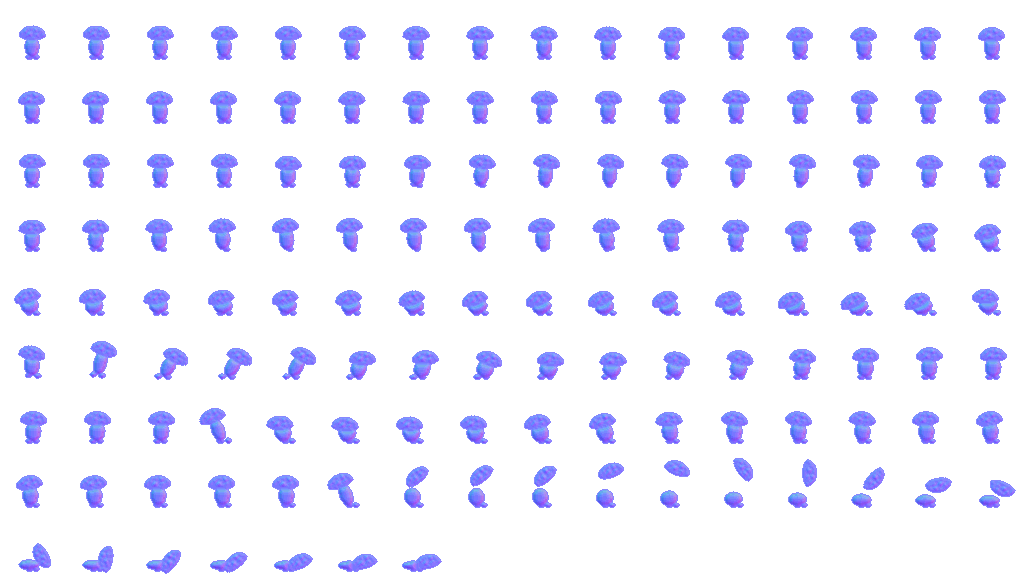
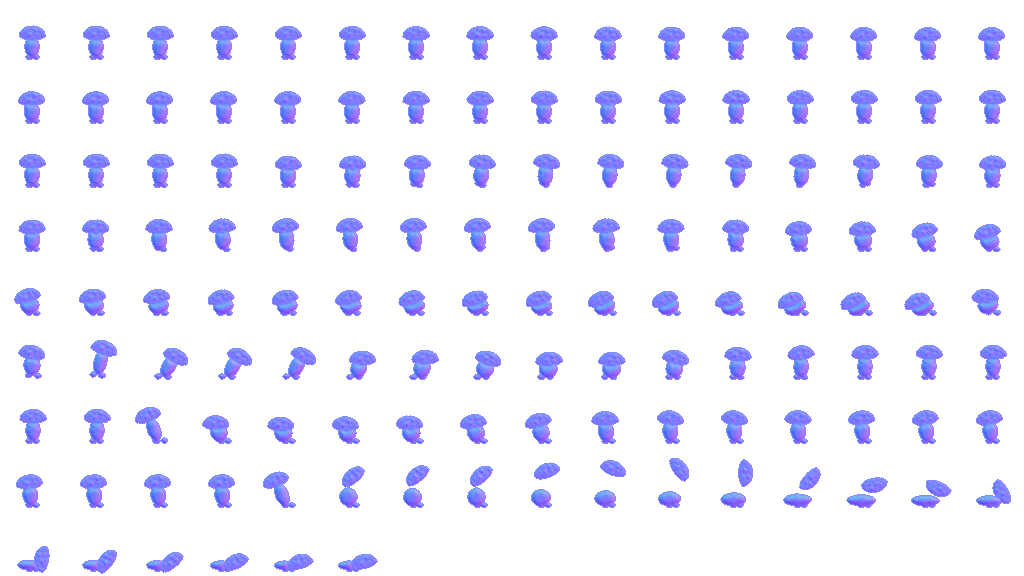
WIP: enemy art v3 (Capmook 35px, Hopkin 29px) - snapshot; Ren redo still in progress
Claude-Session: https://claude.ai/code/session_01BpYjz1tN7BSm1fEV9HQrDi

diff --git a/aurelia/tools/spritegen/chars/hopkin.py b/aurelia/tools/spritegen/chars/hopkin.py
@@ -36,51 +36,58 @@ def P(**kw):
     return d
 
 
+def sq(s):
+    """Volume-preserving squash/stretch: s>1 stretches tall, s<1 squashes flat (area stays constant)."""
+    return {"bh": 9.5 * s, "bw": 11.0 / s}
+
+
 def poses(anim, n):
+    """Disney checklist per anim: anticipation, squash & stretch (volume kept), arcs, overlap (ears are
+    springs), slow in/out (ease tags), exaggeration, a clear tell before every attack."""
     if anim == "idle":
         return [
-            P(bw=11.0, bh=9.5, earback=0.0),
-            P(bw=11.25, bh=9.3, earback=0.25, ff=(4.7, 0), bf=(-4.7, 0)),
-            P(bw=11.5, bh=9.1, earback=0.8, lean=1.5),                     # ear twitch
-            P(bw=11.2, bh=9.4, earback=-0.1, expr="blink"),
+            P(**sq(1.0)),
+            P(**sq(0.985), earback=0.15),
+            P(**sq(0.965), earback=0.5, lean=1.2),                     # breath in, ear twitch
+            P(**sq(0.985), earback=-0.1, expr="blink"),
         ][:n]
-    if anim == "walk":    # the hop cycle: squat, stretch-launch, air, air-tuck, land squash, settle
+    if anim == "walk":    # hop cycle on an arc: squat -> stretch-launch -> peak -> tuck/fall -> land squash -> settle
         return [
-            P(bw=12.8, bh=7.8, ff=(5.0, 0), bf=(-5.0, 0), earback=-0.4),
-            P(bw=9.4, bh=11.2, lift=2.5, lean=6, ff=(3.0, -2.0), bf=(-3.0, -2.2), earback=0.4, hx=0.5),
-            P(bw=10.0, bh=10.6, lift=6.0, lean=9, ff=(3.8, -6.0), bf=(-3.2, -6.4), earback=0.7, hx=1.0),
-            P(bw=11.0, bh=10.0, lift=5.0, lean=13, ff=(4.4, -5.0), bf=(-2.8, -5.4), earback=0.55, hx=1.5, expr="happy"),
-            P(bw=13.2, bh=7.3, ff=(5.4, 0), bf=(-5.2, 0), earback=-0.8, lean=2, hx=1.5),
-            P(bw=11.8, bh=9.0, earback=-0.2, hx=1.0),
+            P(**sq(0.8), ff=(5.0, 0), bf=(-5.0, 0), earback=-0.5, expr="happy", ease="in"),
+            P(**sq(1.20), lift=2.4, lean=8, ff=(2.2, -2.0), bf=(-3.4, -2.6), earback=0.6, hx=0.6, ease="out"),
+            P(**sq(1.08), lift=6.6, lean=4, ff=(3.6, -6.2), bf=(-2.8, -6.6), earback=0.8, hx=1.4),
+            P(**sq(0.98), lift=4.4, lean=-6, ff=(4.4, -4.2), bf=(-2.6, -4.6), earback=0.2, hx=1.9, ease="in"),
+            P(**sq(0.70), ff=(5.6, 0), bf=(-5.4, 0), earback=-1.0, lean=3, hx=1.9, ease="out"),
+            P(**sq(1.05), earback=-0.2, hx=1.2),
         ][:n]
-    if anim == "windup":
+    if anim == "windup":   # the tell: pin ears, coil, shiver, glare
         return [
-            P(bw=12.8, bh=8.0, hx=-0.8, rage=0.3, earback=0.3, expr="angry", ff=(5.0, 0), bf=(-5.0, 0)),
-            P(bw=13.6, bh=7.3, hx=0.8, rage=0.65, earback=0.65, expr="angry", ff=(5.4, 0), bf=(-5.4, 0)),
-            P(bw=14.2, bh=6.8, lean=-7, rage=1.0, earback=1.0, expr="angry", mouth="fang", ff=(5.8, 0), bf=(-5.6, 0)),
+            P(**sq(0.84), hx=-0.7, earback=0.5, expr="angry", mouth="fang", ff=(5.0, 0), bf=(-5.0, 0), ease="inout"),
+            P(**sq(0.8), hx=0.9, earback=0.7, expr="angry", mouth="fang", ff=(5.5, 0), bf=(-5.4, 0)),
+            P(**sq(0.72), lean=-9, hx=-0.5, earback=0.9, expr="angry", mouth="fang", ff=(6.0, 0), bf=(-5.8, 0)),
         ][:n]
     if anim == "pounce":
         return [
-            P(bw=14.0, bh=6.6, lean=-10, hx=-1.5, rage=1.0, earback=1.0, expr="angry", mouth="fang", ff=(5.8, 0), bf=(-5.6, 0)),
-            P(bw=9.0, bh=11.4, lean=28, hx=1.5, lift=8.0, rage=1.0, earback=0.75, expr="angry", mouth="open", ff=(-1.0, -9.0), bf=(-4.5, -9.6)),
-            P(bw=10.0, bh=10.4, lean=36, hx=3.0, lift=4.5, rage=1.0, earback=0.8, expr="angry", mouth="open", ff=(1.0, -5.5), bf=(-4.0, -6.0)),
-            P(bw=12.2, bh=8.6, lean=36, hx=3.8, rage=1.0, earback=1.1, expr="angry", mouth="wide", ff=(3.0, 0), bf=(-5.5, 0)),
-            P(bw=13.5, bh=7.2, lean=14, hx=3.0, rage=0.5, earback=0.3, expr="angry", mouth="fang", ff=(5.0, 0), bf=(-5.4, 0)),
-            P(bw=11.8, bh=9.0, lean=1, hx=1.2, rage=0.1, earback=-0.2, expr="neutral"),
+            P(**sq(0.7), lean=-12, hx=-1.6, earback=0.95, expr="angry", mouth="fang", ff=(6.0, 0), bf=(-5.8, 0), ease="in"),
+            P(**sq(1.24), lean=30, hx=1.6, lift=8.0, earback=1.15, expr="angry", mouth="open", ff=(-1.0, -9.0), bf=(-4.6, -9.8), ease="snap"),
+            P(**sq(1.12), lean=34, hx=3.0, lift=4.8, earback=1.0, expr="angry", mouth="open", ff=(1.0, -5.8), bf=(-4.2, -6.4)),
+            P(**sq(0.88), lean=38, hx=4.0, earback=1.2, expr="angry", mouth="wide", ff=(3.2, 0), bf=(-5.6, 0)),
+            P(**sq(0.72), lean=12, hx=3.2, earback=-0.6, expr="angry", mouth="fang", ff=(5.2, 0), bf=(-5.6, 0), ease="out"),
+            P(**sq(1.03), lean=-1, hx=1.2, earback=0.3, expr="neutral"),
         ][:n]
     if anim == "hurt":
         return [
-            P(bw=9.0, bh=11.4, lean=-22, hx=-2.5, lift=1.0, expr="hurt", mouth="o", earback=1.3, ff=(3.5, -0.5), bf=(-5, -0.5)),
-            P(bw=13.0, bh=8.0, lean=-12, hx=-3.0, expr="hurt", mouth="o", earback=0.7),
-            P(bw=11.6, bh=9.2, lean=-4, hx=-1.5, expr="hurt", mouth="o", earback=0.1),
+            P(**sq(1.22), lean=-24, hx=-2.6, lift=1.0, expr="hurt", mouth="o", earback=1.4, ff=(3.5, -0.5), bf=(-5, -0.5), ease="snap"),
+            P(**sq(0.76), lean=-12, hx=-3.2, expr="hurt", mouth="o", earback=0.5),
+            P(**sq(1.0), lean=-3, hx=-1.4, expr="hurt", mouth="o", earback=-0.3),
         ][:n]
     if anim == "death":
         return [
-            P(bw=9.4, bh=11.0, lean=-22, hx=-2.5, lift=1.0, expr="hurt", mouth="o", earback=1.3),
-            P(bw=13.6, bh=7.0, lean=-6, hx=-2.5, expr="dead", mouth="tongue", earback=-1.0, droop=0.4),
-            P(bw=15.2, bh=5.6, hx=-2.5, expr="dead", mouth="tongue", droop=0.8, earback=-1.0),
-            P(bw=16.2, bh=4.7, hx=-2.5, expr="dead", mouth="tongue", droop=1.0, earback=-1.0),
-            P(bw=16.6, bh=4.3, hx=-2.5, expr="dead", mouth="tongue", droop=1.0, earback=-1.0),
+            P(**sq(1.2), lean=-24, hx=-2.6, lift=1.0, expr="hurt", mouth="o", earback=1.4, ease="snap"),
+            P(**sq(0.74), lean=-8, hx=-2.6, expr="dead", mouth="tongue", earback=-1.0, droop=0.4),
+            P(bw=15.0, bh=5.6, hx=-2.6, expr="dead", mouth="tongue", droop=0.8, earback=-1.0),
+            P(bw=16.2, bh=4.7, hx=-2.6, expr="dead", mouth="tongue", droop=1.0, earback=-1.0),
+            P(bw=16.6, bh=4.3, hx=-2.6, expr="dead", mouth="tongue", droop=1.0, earback=-1.0),
         ][:n]
     raise KeyError(anim)
 
@@ -161,15 +168,15 @@ def draw(sk, chains, p):
     # body + belly
     body = Mask(CELL).ellipse(c, bw, bh, lean)
     cv.paint("fur", body, group="body", k=6, cast=4)
-    bo = _rot((bw * 0.22, bh * 0.28), lean)
-    belly = Mask(CELL).ellipse((c[0] + bo[0], c[1] + bo[1]), bw * 0.62, bh * 0.6, lean).array() & body.array()
+    bo = _rot((bw * 0.12, bh * 0.50), lean)
+    belly = Mask(CELL).ellipse((c[0] + bo[0], c[1] + bo[1]), bw * 0.50, bh * 0.42, lean).array() & body.array()
     cv.paint("belly", belly, group="body", k=5, deep=False)
     buf = cv.finish(NO_SEAM)
     # ---- face ----
     ok = {cv.matidx["fur"], cv.matidx["belly"]}
-    fo = _rot((bw * 0.17, -bh * 0.16), lean)
+    fo = _rot((bw * 0.22, -bh * 0.06), lean)
     fx, fy = int(round(c[0] + fo[0])), int(round(c[1] + fo[1]))
-    eyes(buf, ok, fx, fy, p["expr"], 3, 4, 5)
+    eyes(buf, ok, fx, fy - 1, p["expr"], 3, 4, 4)
     pink, dark, white, tongue = (246, 150, 170), (92, 40, 60), (255, 255, 255), (240, 110, 130)
     if p["expr"] in ("neutral", "blink", "happy"):
         for dx in (-7, 7):

diff --git a/aurelia/tools/spritegen/chars/capmook.py b/aurelia/tools/spritegen/chars/capmook.py
@@ -27,6 +27,11 @@ DEFAULT = dict(hx=0.0, lift=0.0, lean=0.0, bw=6.6, bh=10.6, ff=(3.0, 0.0), bf=(-
                capoff=(0.0, 0.0), capabs=(0.0, 0.0), capfree=0.0, caprot=0.0, expr="neutral", mouth="smile")
 
 
+def sq(s):
+    """Volume-preserving squash (s<1) / stretch (s>1): bw*bh stays constant."""
+    return {"bh": 10.6 * s, "bw": 6.6 / s}
+
+
 def P(**kw):
     d = dict(DEFAULT)
     d.update(kw)
@@ -54,39 +59,39 @@ def poses(anim, n):
             t = i / n
             ff, bf = _foot(t, 3.4, 2.4), _foot(t + 0.5, 3.4, 2.4)
             down = 0.5 + 0.5 * math.cos(4 * math.pi * t)          # 1 at foot contact
-            out.append(P(lean=5.5 * math.sin(2 * math.pi * t), bw=6.6 + 0.4 * down, bh=10.6 - 0.8 * down,
+            out.append(P(lean=5.5 * math.sin(2 * math.pi * t), **sq(1.0 - 0.075 * down),
                          ff=ff, bf=bf, hx=0.7 * math.sin(2 * math.pi * t), capoff=(0.0, 0.5 * down),
                          expr="neutral"))
         return out
-    if anim == "windup":    # squat, shake and glare
+    if anim == "windup":    # the tell: crouch, shake, cap pressed down, glare + gritted teeth
         return [
-            P(bw=7.4, bh=9.2, lean=-5, expr="angry", ff=(3.3, 0), bf=(-3.5, 0), capoff=(0, 0.6), mouth="grit", ease="inout"),
-            P(bw=8.2, bh=8.0, lean=-10, hx=-0.9, expr="angry", ff=(3.7, 0), bf=(-3.9, 0), capoff=(0.0, 1.2), mouth="grit"),
-            P(bw=8.7, bh=7.3, lean=-13, hx=0.9, expr="angry", ff=(4.0, 0), bf=(-4.2, 0), capoff=(-0.4, 1.6), mouth="grit"),
-            P(bw=8.9, bh=7.0, lean=-15, hx=-0.5, expr="angry", ff=(4.1, 0), bf=(-4.3, 0), capoff=(-0.6, 1.8), mouth="grit"),
+            P(**sq(0.86), lean=-5, expr="angry", ff=(3.3, 0), bf=(-3.5, 0), capoff=(0, 0.6), mouth="grit", ease="inout"),
+            P(**sq(0.76), lean=-10, hx=-0.9, expr="angry", ff=(3.7, 0), bf=(-3.9, 0), capoff=(0.0, 1.2), mouth="grit"),
+            P(**sq(0.70), lean=-13, hx=0.9, expr="angry", ff=(4.0, 0), bf=(-4.2, 0), capoff=(-0.4, 1.6), mouth="grit"),
+            P(**sq(0.67), lean=-15, hx=-0.5, expr="angry", ff=(4.1, 0), bf=(-4.3, 0), capoff=(-0.6, 1.8), mouth="grit"),
         ][:n]
-    if anim == "headbutt":
+    if anim == "headbutt":   # coil (anticipation) -> snap launch (stretch) -> contact on an arc -> recoil -> settle
         return [
-            P(bw=8.9, bh=7.0, lean=-19, hx=-1.2, expr="angry", ff=(4.1, 0), bf=(-4.4, 0), capoff=(-1.0, 1.8), mouth="grit", ease="in"),
-            P(bw=9.2, bh=6.6, lean=-24, hx=-2.6, expr="angry", ff=(4.3, 0), bf=(-4.6, 0), capoff=(-1.8, 2.0), mouth="grit", stop=True, ease="in"),
-            P(bw=6.0, bh=11.6, lean=12, hx=1.8, lift=3.2, expr="angry", ff=(5.2, -1.6), bf=(-3.4, -2.6), mouth="open", ease="snap"),
-            P(bw=6.2, bh=11.0, lean=26, hx=3.8, lift=1.0, expr="angry", ff=(7.0, 0), bf=(-2.4, -0.6), capoff=(2.2, 1.2), mouth="open"),
-            P(bw=7.2, bh=9.6, lean=18, hx=3.8, expr="angry", ff=(6.0, 0), bf=(-3.0, 0), capoff=(1.4, 0.8), mouth="open"),
-            P(bw=8.2, bh=8.0, lean=8, hx=2.6, expr="neutral", ff=(4.6, 0), bf=(-3.6, 0), capoff=(0.4, 1.2), mouth="grit"),
-            P(bw=7.2, bh=9.8, lean=1, hx=1.0, expr="neutral", ff=(3.4, 0), bf=(-3.4, 0)),
+            P(**sq(0.66), lean=-19, hx=-1.2, expr="angry", ff=(4.1, 0), bf=(-4.4, 0), capoff=(-1.0, 1.8), mouth="grit", ease="in"),
+            P(**sq(0.62), lean=-24, hx=-2.6, expr="angry", ff=(4.3, 0), bf=(-4.6, 0), capoff=(-1.8, 2.0), mouth="grit", stop=True, ease="in"),
+            P(**sq(1.14), lean=12, hx=1.8, lift=3.2, expr="angry", ff=(5.2, -1.6), bf=(-3.4, -2.6), mouth="open", ease="snap"),
+            P(**sq(1.06), lean=27, hx=3.8, lift=1.0, expr="angry", ff=(7.0, 0), bf=(-2.4, -0.6), capoff=(2.4, 1.4), mouth="open"),
+            P(**sq(0.92), lean=18, hx=3.8, expr="angry", ff=(6.0, 0), bf=(-3.0, 0), capoff=(1.4, 0.8), mouth="open"),
+            P(**sq(0.78), lean=6, hx=2.6, expr="neutral", ff=(4.6, 0), bf=(-3.6, 0), capoff=(-0.4, 1.4), mouth="grit", ease="out"),
+            P(**sq(1.03), lean=0, hx=1.0, expr="neutral", ff=(3.4, 0), bf=(-3.4, 0)),
         ][:n]
     if anim == "hurt":
         return [
-            P(bw=6.0, bh=11.2, lean=-20, hx=-2.2, lift=0.8, expr="hurt", capoff=(-1.2, -0.4), ff=(3.6, -0.5), bf=(-4.2, 0), mouth="o", ease="snap"),
-            P(bw=8.0, bh=8.6, lean=-14, hx=-2.6, expr="hurt", capoff=(-1.0, 0.8), mouth="o"),
-            P(bw=7.2, bh=9.8, lean=-4, hx=-1.0, expr="hurt", mouth="o"),
+            P(**sq(1.12), lean=-20, hx=-2.2, lift=0.8, expr="hurt", capoff=(-1.2, -0.4), ff=(3.6, -0.5), bf=(-4.2, 0), mouth="o", ease="snap"),
+            P(**sq(0.82), lean=-14, hx=-2.6, expr="hurt", capoff=(-1.0, 0.8), mouth="o"),
+            P(**sq(0.97), lean=-4, hx=-1.0, expr="hurt", mouth="o"),
         ][:n]
     if anim == "death":
         return [
-            P(bw=6.0, bh=11.2, lean=-20, hx=-2.2, expr="hurt", capoff=(-1.2, -0.4), mouth="o", ease="snap"),
-            P(bw=7.4, bh=8.4, lean=-9, hx=-2.2, expr="dead", capfree=1, capabs=(2.0, -30.0), caprot=-40.0, mouth="o"),
-            P(bw=8.4, bh=6.4, lean=-2, hx=-2.4, expr="dead", capfree=1, capabs=(6.0, -37.0), caprot=55.0, mouth="o"),
-            P(bw=9.4, bh=5.0, hx=-2.6, expr="dead", capfree=1, capabs=(10.0, -24.0), caprot=170.0, mouth="o"),
+            P(**sq(1.12), lean=-20, hx=-2.2, expr="hurt", capoff=(-1.2, -0.4), mouth="o", ease="snap"),
+            P(**sq(0.8), lean=-9, hx=-2.2, expr="dead", capfree=1, capabs=(2.0, -30.0), caprot=-40.0, mouth="o"),
+            P(**sq(0.62), lean=-2, hx=-2.4, expr="dead", capfree=1, capabs=(6.0, -37.0), caprot=55.0, mouth="o"),
+            P(**sq(0.47), hx=-2.6, expr="dead", capfree=1, capabs=(10.0, -24.0), caprot=170.0, mouth="o"),
             P(bw=10.0, bh=4.2, hx=-3.0, expr="dead", capfree=1, capabs=(12.0, -9.0), caprot=305.0, mouth="o"),
             P(bw=10.2, bh=3.9, hx=-3.0, expr="dead", capfree=1, capabs=(12.0, -7.4), caprot=348.0, mouth="o"),
         ][:n]
@@ -156,11 +161,11 @@ def draw(sk, chains, p):
     fx, fy = int(round(sk["face"][0])), int(round(sk["face"][1])) - 1
     eyes(buf, ok, fx, fy, p["expr"], 3, 4, 4)
     my = fy + 5
-    pink, dark = (222, 118, 126), (92, 38, 52)
+    pink, dark, smile = (230, 126, 134), (92, 38, 52), (150, 70, 84)
     mouth = p["mouth"]
     if p["expr"] in ("neutral", "blink"):
         for dx, dy in ((-1, 0), (0, 1), (1, 1), (2, 0)):
-            put(buf, fx + dx, my + dy - 1, dark, ok)
+            put(buf, fx + dx, my + dy - 1, smile, ok)
         for dx in (-5, 5):
             put(buf, fx + dx, fy + 4, pink, ok)
     elif mouth == "open":
